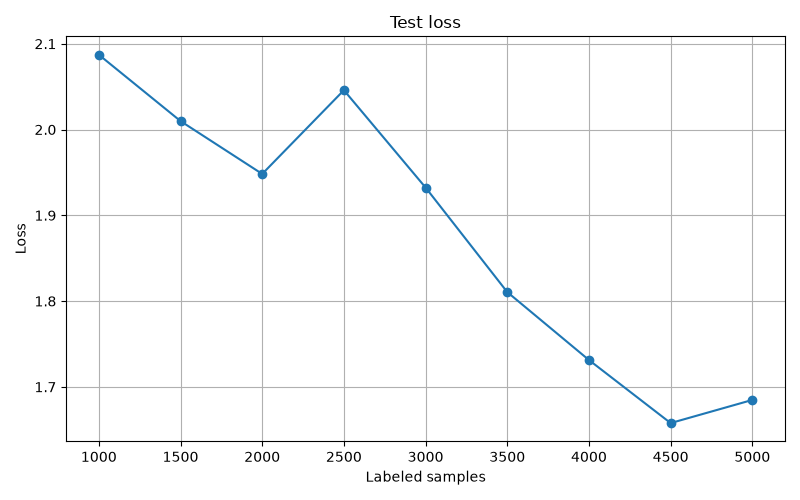
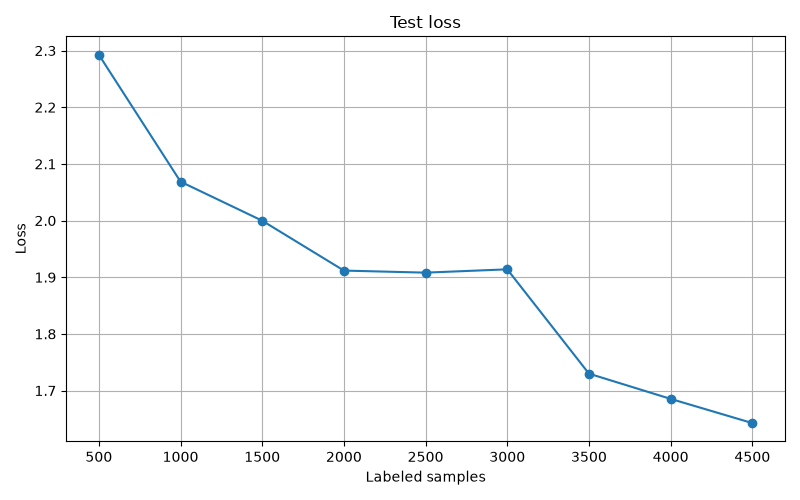
Add corrected BALD experiment results and comparison plots

diff --git a/scripts/plots_milestone8.py b/scripts/plots_milestone8.py
@@ -1,0 +1,183 @@
+"""
+This script rebuilds the milestone 8 plots from saved CSV files.
+
+It was added because the original comparison used mismatched labeled pool sizes:
+BALD started with 500 samples, while Random Sampling started with 1000.
+As a result, the Random results were plotted against incorrect x-axis values.
+"""
+
+
+from pathlib import Path
+
+from alcv.utils.csv import load_column_from_csv
+from alcv.utils.save_plots import save_line_plot, save_two_lines_plot
+
+
+PROJECT_ROOT = Path(__file__).resolve().parents[1]
+
+BALD_CSV_PATH = (
+    PROJECT_ROOT
+    / "reports/tables/milestone8/bald_sampling_experiment.csv"
+)
+
+RANDOM_CSV_PATH = (
+    PROJECT_ROOT
+    / "reports/tables/milestone3/random_sampling_experiment_with_dropout.csv"
+)
+
+SAVE_DIR_PLOTS = PROJECT_ROOT / "reports/figures/milestone8"
+
+
+def main() -> None:
+    # BALD
+    bald_labeled_size = load_column_from_csv(
+        BALD_CSV_PATH,
+        "labeled_size"
+    )
+
+    bald_train_accuracy = load_column_from_csv(
+        BALD_CSV_PATH,
+        "train_accuracy"
+    )
+
+    bald_train_loss = load_column_from_csv(
+        BALD_CSV_PATH,
+        "train_loss"
+    )
+
+    bald_test_accuracy = load_column_from_csv(
+        BALD_CSV_PATH,
+        "test_accuracy"
+    )
+
+    bald_test_loss = load_column_from_csv(
+        BALD_CSV_PATH,
+        "test_loss"
+    )
+
+    # Random Sampling with Dropout
+    random_labeled_size = load_column_from_csv(
+        RANDOM_CSV_PATH,
+        "labeled_size"
+    )
+
+    random_train_accuracy = load_column_from_csv(
+        RANDOM_CSV_PATH,
+        "train_accuracy"
+    )
+
+    random_train_loss = load_column_from_csv(
+        RANDOM_CSV_PATH,
+        "train_loss"
+    )
+
+    random_test_accuracy = load_column_from_csv(
+        RANDOM_CSV_PATH,
+        "test_accuracy"
+    )
+
+    random_test_loss = load_column_from_csv(
+        RANDOM_CSV_PATH,
+        "test_loss"
+    )
+
+    # save_two_lines_plot использует одну общую ось X,
+    # поэтому размеры labeled pool должны совпадать.
+    if bald_labeled_size != random_labeled_size:
+        raise ValueError(
+            "BALD and Random have different labeled_size values:\n"
+            f"BALD:   {bald_labeled_size}\n"
+            f"Random: {random_labeled_size}"
+        )
+
+    # Отдельные графики BALD
+    save_line_plot(
+        x_values=bald_labeled_size,
+        y_values=bald_train_accuracy,
+        save_path=SAVE_DIR_PLOTS / "train_accuracy.png",
+        title="Train Accuracy",
+        x_label="Labeled samples",
+        y_label="Accuracy"
+    )
+
+    save_line_plot(
+        x_values=bald_labeled_size,
+        y_values=bald_train_loss,
+        save_path=SAVE_DIR_PLOTS / "train_loss.png",
+        title="Train Loss",
+        x_label="Labeled samples",
+        y_label="Loss"
+    )
+
+    save_line_plot(
+        x_values=bald_labeled_size,
+        y_values=bald_test_accuracy,
+        save_path=SAVE_DIR_PLOTS / "test_accuracy.png",
+        title="Test Accuracy",
+        x_label="Labeled samples",
+        y_label="Accuracy"
+    )
+
+    save_line_plot(
+        x_values=bald_labeled_size,
+        y_values=bald_test_loss,
+        save_path=SAVE_DIR_PLOTS / "test_loss.png",
+        title="Test Loss",
+        x_label="Labeled samples",
+        y_label="Loss"
+    )
+
+    # Сравнительные графики
+    save_two_lines_plot(
+        bald_labeled_size,
+        bald_train_accuracy,
+        random_train_accuracy,
+        "BALD Sampling",
+        "Random Sampling with Dropout",
+        save_path=SAVE_DIR_PLOTS / "train_accuracy_comparison.png",
+        title="Train Accuracy",
+        x_label="Labeled samples",
+        y_label="Accuracy"
+    )
+
+    save_two_lines_plot(
+        bald_labeled_size,
+        bald_train_loss,
+        random_train_loss,
+        "BALD Sampling",
+        "Random Sampling with Dropout",
+        save_path=SAVE_DIR_PLOTS / "train_loss_comparison.png",
+        title="Train Loss",
+        x_label="Labeled samples",
+        y_label="Loss"
+    )
+
+    save_two_lines_plot(
+        bald_labeled_size,
+        bald_test_accuracy,
+        random_test_accuracy,
+        "BALD Sampling",
+        "Random Sampling with Dropout",
+        save_path=SAVE_DIR_PLOTS / "test_accuracy_comparison.png",
+        title="Test Accuracy",
+        x_label="Labeled samples",
+        y_label="Accuracy"
+    )
+
+    save_two_lines_plot(
+        bald_labeled_size,
+        bald_test_loss,
+        random_test_loss,
+        "BALD Sampling",
+        "Random Sampling with Dropout",
+        save_path=SAVE_DIR_PLOTS / "test_loss_comparison.png",
+        title="Test Loss",
+        x_label="Labeled samples",
+        y_label="Loss"
+    )
+
+    print(f"Plots saved to: {SAVE_DIR_PLOTS}")
+
+
+if __name__ == "__main__":
+    main()

diff --git a/scripts/run_milestone3_random_sampling.py b/scripts/run_milestone3_random_sampling.py
@@ -21,7 +21,7 @@ SAVE_PATH_CSV = PROJECT_ROOT / "reports/tables/milestone3/random_sampling_experi
 SAVE_DIR_PLOTS = PROJECT_ROOT / "reports/figures/milestone3/with_dropout"
 
 NUM_ROUNDS = 9
-INITIAL_LABELED_SIZE = 1000
+INITIAL_LABELED_SIZE = 500
 SAMPLE_SIZE = 500
 SEED = 42
 BATCH_SIZE = 32
